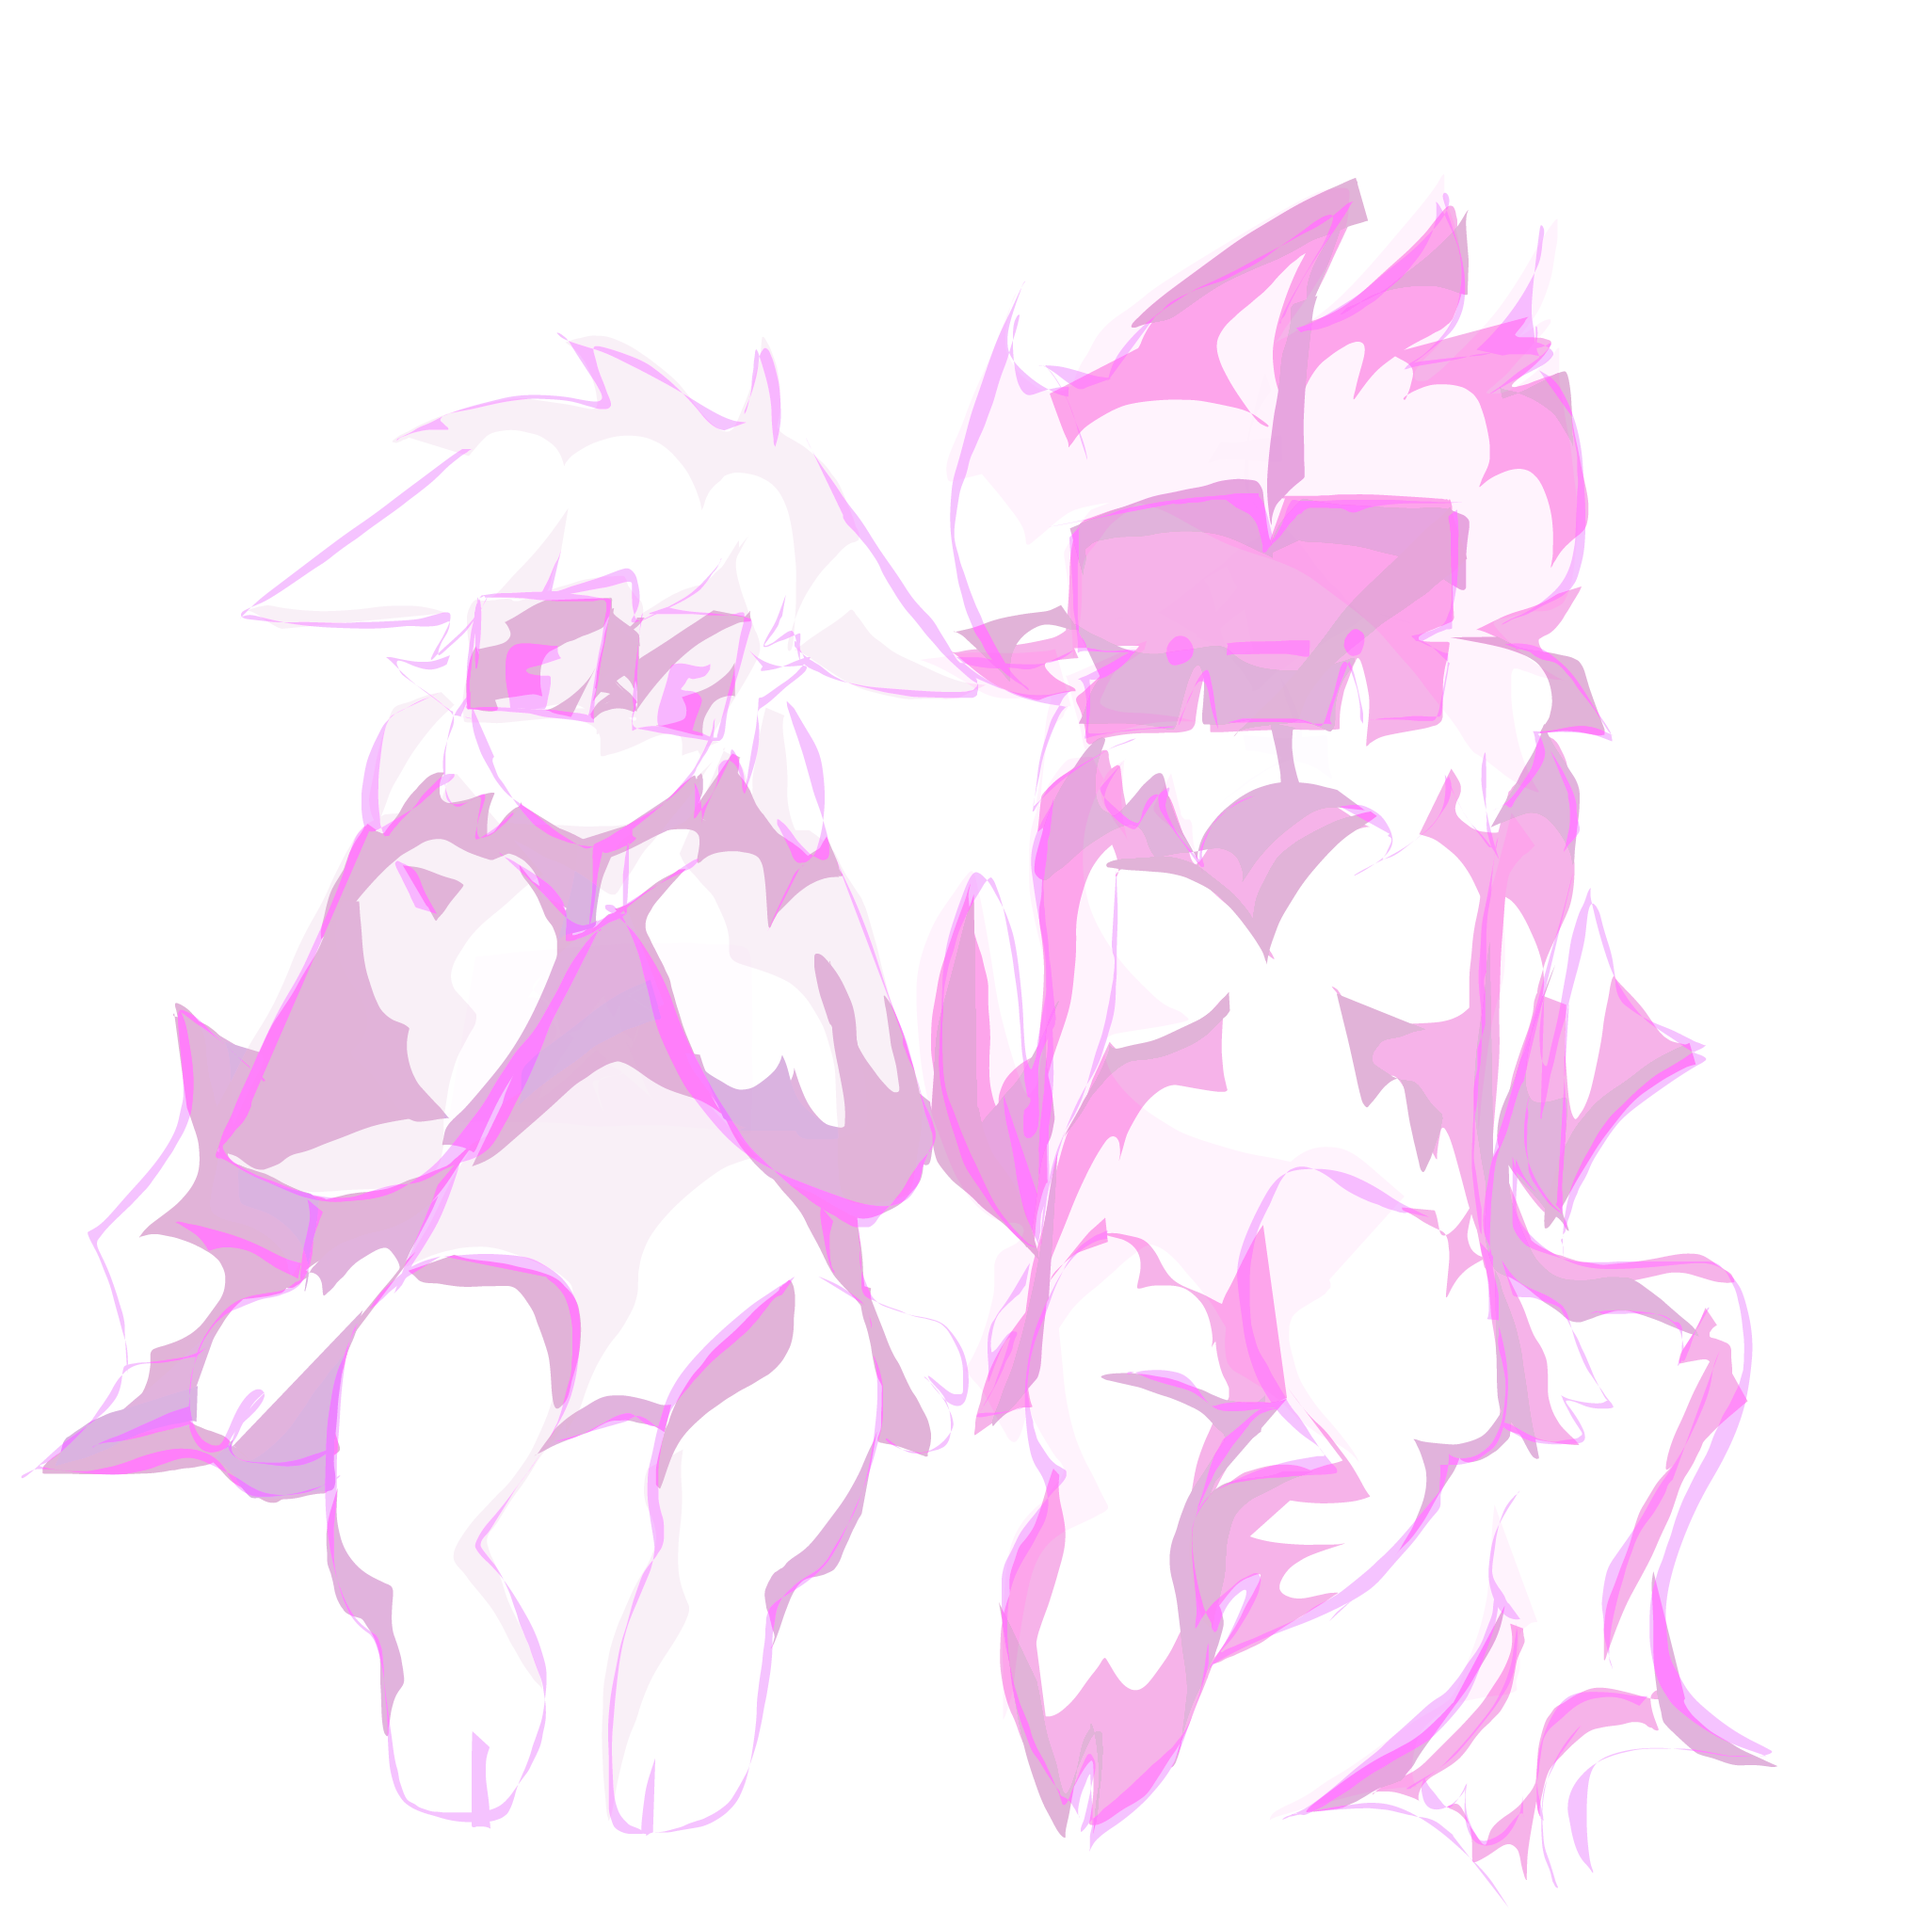
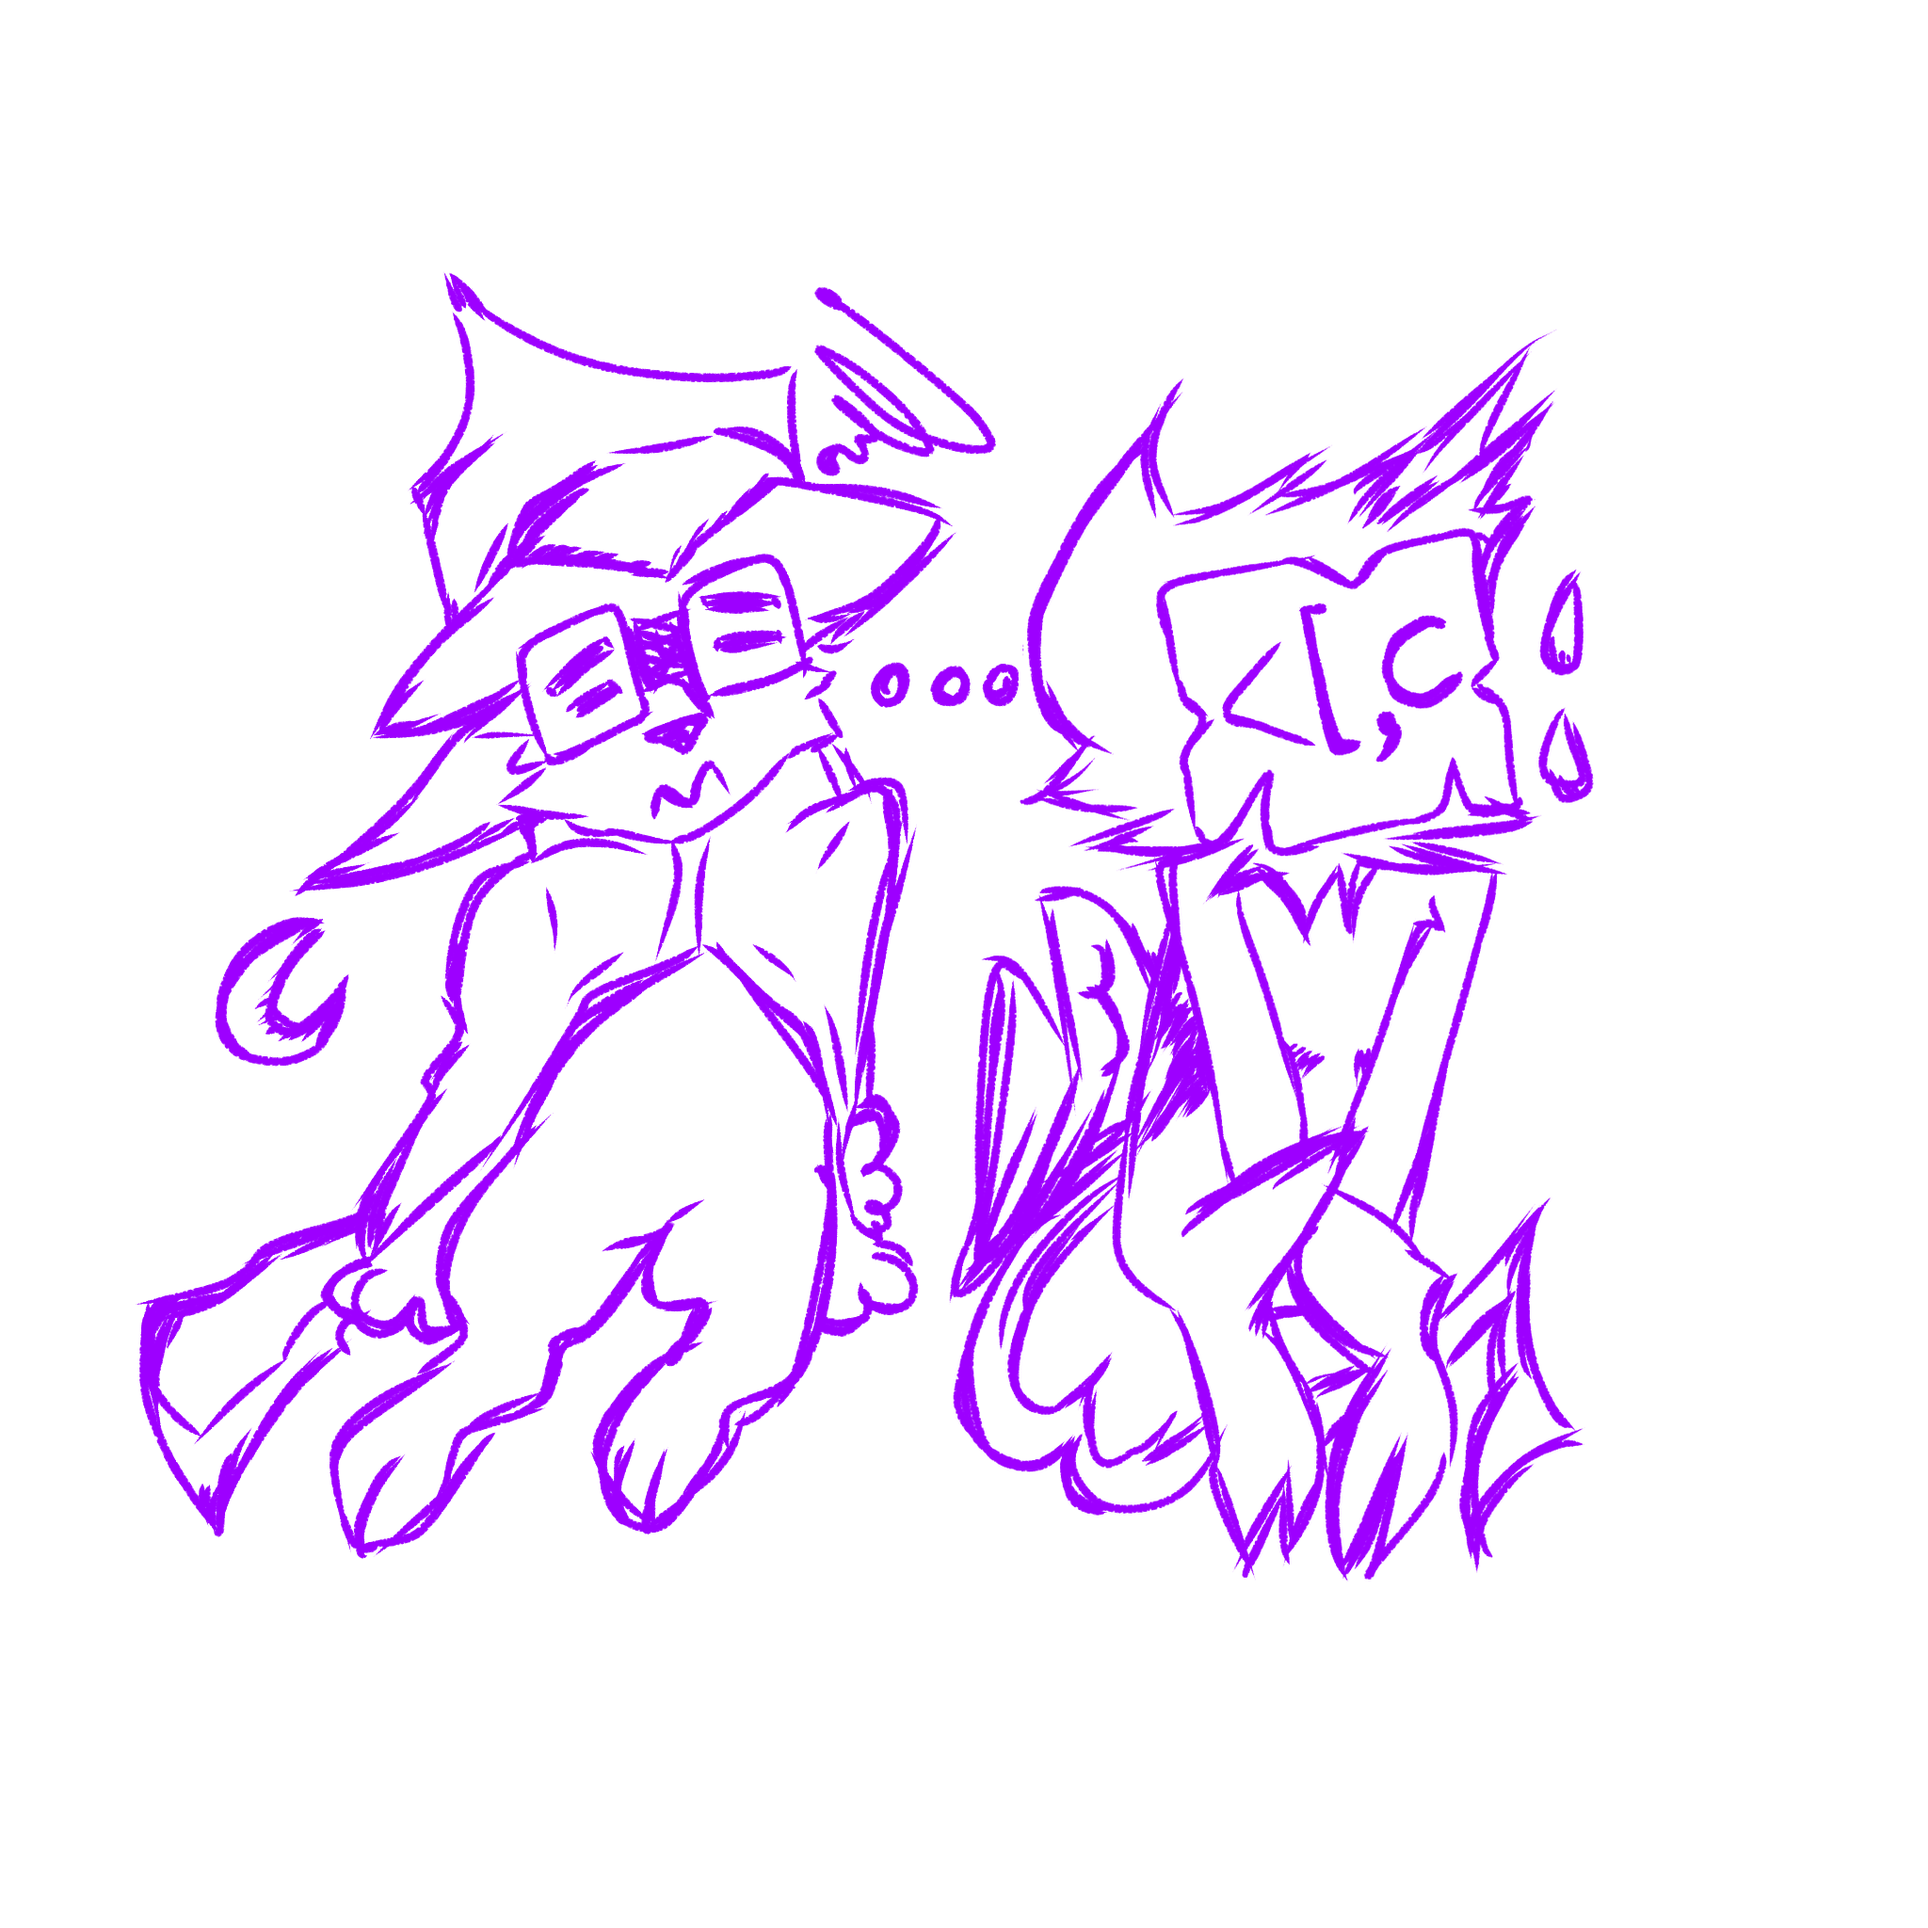
2025>2026

diff --git a/gallery/index.html b/gallery/index.html
@@ -133,7 +133,7 @@
                 <div class="credits" style="margin-top: 10px;">
                     <a href="/en/gallery/">change to english</a>
                     <p class="note">
-                        feito por © lexpdev<br>em 2025.
+                        feito por © lexpdev<br>em 2026.
                     </p>
                 </div>
             </div>

diff --git a/gallery/photos.html b/gallery/photos.html
@@ -199,7 +199,7 @@
                 <div class="credits" style="margin-top: 10px;">
                     <a href="/en/gallery/">change to english</a>
                     <p class="note">
-                        feito por © lexpdev<br>em 2025.
+                        feito por © lexpdev<br>em 2026.
                     </p>
                 </div>
             </div>

diff --git a/en/gallery/index.html b/en/gallery/index.html
@@ -122,7 +122,7 @@
                 <div class="credits" style="margin-top: 10px;">
                     <a href="/gallery/">mudar para português</a>
                     <p class="note">
-                        made by © lexpdev<br>in 2025.
+                        made by © lexpdev<br>in 2026.
                     </p>
                 </div>
             </div>

diff --git a/en/gallery/photos.html b/en/gallery/photos.html
@@ -189,7 +189,7 @@
                 <div class="credits" style="margin-top: 10px;">
                     <a href="/gallery/">mudar para português</a>
                     <p class="note">
-                        made by © lexpdev<br>in 2025.
+                        made by © lexpdev<br>in 2026.
                     </p>
                 </div>
             </div>

diff --git a/blog/index.html b/blog/index.html
@@ -161,7 +161,7 @@
                 <div class="credits" style="margin-top: 10px;">
                     <a href="/en/">change to english</a>
                     <p class="note">
-                        feito por © lexpdev<br>em 2025.
+                        feito por © lexpdev<br>em 2026.
                     </p>
                 </div>
             </div>

diff --git a/blog/posts/revivendo a vida de um iPhone 4 de 15 anos atrás/index.html b/blog/posts/revivendo a vida de um iPhone 4 de 15 anos atrás/index.html
@@ -242,7 +242,7 @@
                 <div class="credits" style="margin-top: 10px;">
                     <a href="/en/">change to english</a>
                     <p class="note">
-                        feito por © lexpdev<br>em 2025.
+                        feito por © lexpdev<br>em 2026.
                     </p>
                 </div>
             </div>

diff --git a/blog/posts/test/index.html b/blog/posts/test/index.html
@@ -151,7 +151,7 @@
                 <div class="credits" style="margin-top: 10px;">
                     <a href="/en/">change to english</a>
                     <p class="note">
-                        feito por © lexpdev<br>em 2025.
+                        feito por © lexpdev<br>em 2026.
                     </p>
                 </div>
             </div>

diff --git a/about.html b/about.html
@@ -248,7 +248,7 @@
                 <div class="credits" style="margin-top: 10px;">
                     <a href="en/">change to english</a>
                     <p class="note">
-                        feito por © lexpdev<br>em 2025.
+                        feito por © lexpdev<br>em 2026.
                     </p>
                 </div>
             </div>

diff --git a/changelog.html b/changelog.html
@@ -173,7 +173,7 @@
                 <div class="credits" style="margin-top: 10px;">
                     <a href="en/">change to english</a>
                     <p class="note">
-                        feito por © lexpdev<br>em 2025.
+                        feito por © lexpdev<br>em 2026.
                     </p>
                 </div>
             </div>

diff --git a/credits.html b/credits.html
@@ -183,7 +183,7 @@
                 <div class="credits" style="margin-top: 10px;">
                     <a href="en/">change to english</a>
                     <p class="note">
-                        feito por © lexpdev<br>em 2025.
+                        feito por © lexpdev<br>em 2026.
                     </p>
                 </div>
             </div>

diff --git a/en/about.html b/en/about.html
@@ -224,7 +224,7 @@
                 <div class="credits" style="margin-top: 10px;">
                     <a href="../">mudar para português</a>
                     <p class="note">
-                        made by © lexpdev<br>in 2025.
+                        made by © lexpdev<br>in 2026.
                     </p>
                 </div>
             </div>

diff --git a/en/changelog.html b/en/changelog.html
@@ -152,7 +152,7 @@
                 <div class="credits" style="margin-top: 10px;">
                     <a href="../">mudar para português</a>
                     <p class="note">
-                        made by © lexpdev<br>in 2025.
+                        made by © lexpdev<br>in 2026.
                     </p>
                 </div>
             </div>
